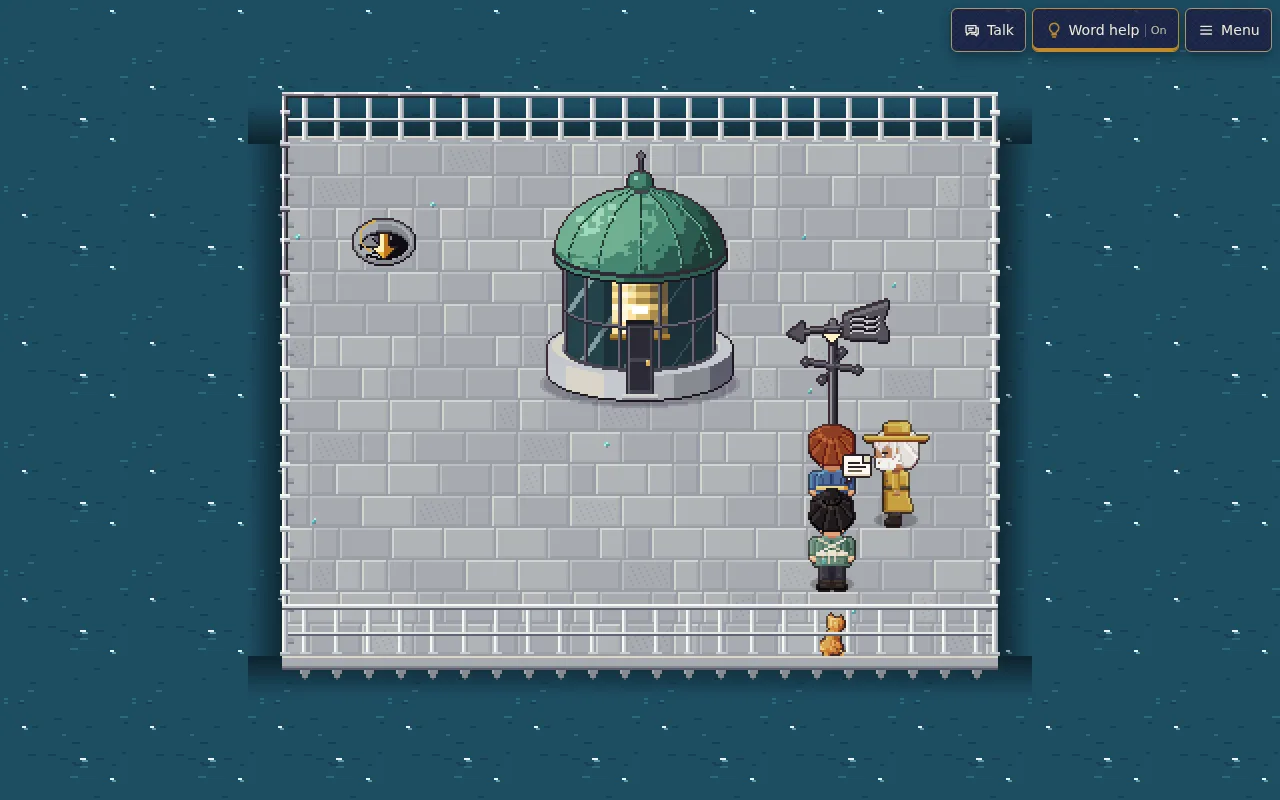
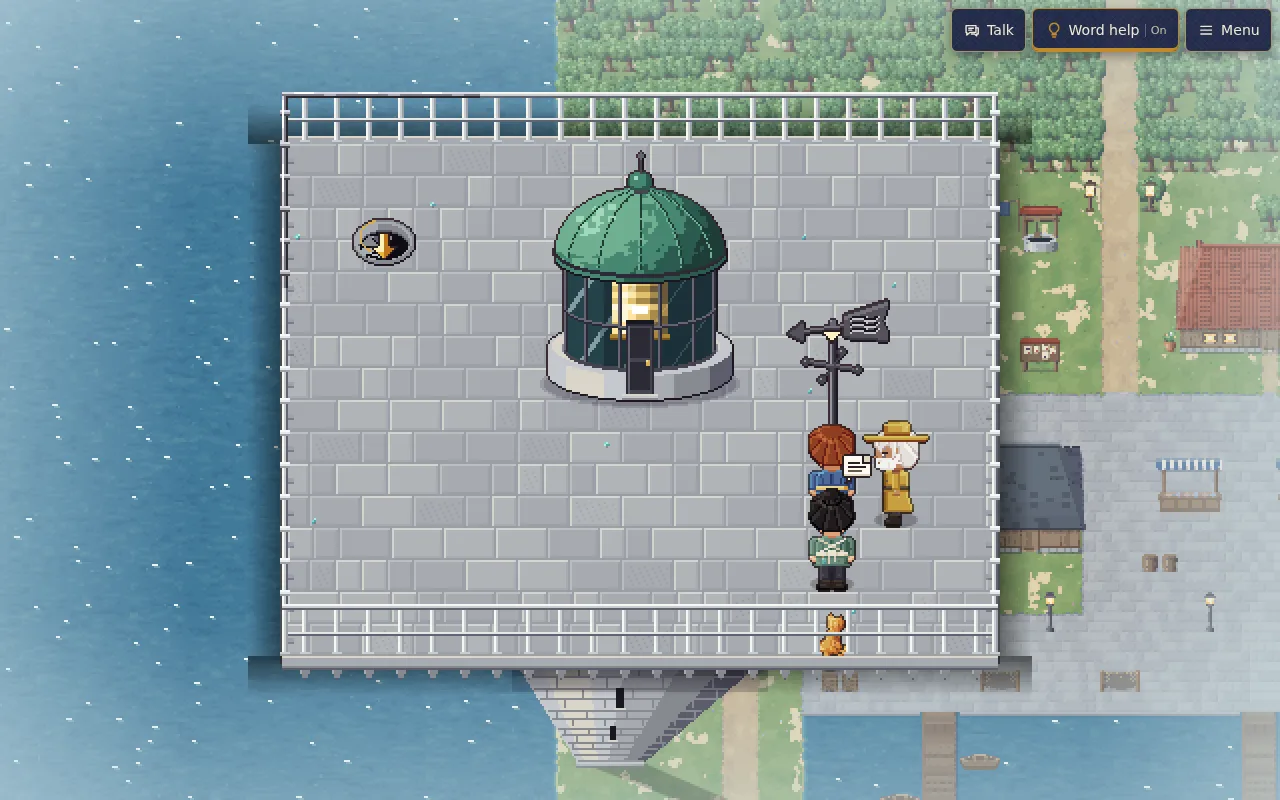
The view from height: evidence, landmark checks and docs for the lighthouse top and the lookout
Finishes the view-from-height work (src/engine/61_below.js, committed in
6b75609 and merged with the task branch in ffdcf46):

- tests/e2e/lighthouse_top.mjs: more landmarks (open sea west of the point;
  the terraces west and east and the channel below the lookout), a water
  colour test, and a night test for on-screen colours (the deck's darkness
  lies over the ground, so a landmark keeps its colour's leaning, not its
  brightness).
- docs/CONTENT.md: `surround` now documents the object form
  ({ below, at, hide, scale, drop, shaft, top, foot, beyond }).
- docs/screenshots/lighthouse_top/: regenerated with the town below.
- docs/screenshots/lookout/: new, festival night and the village after,
  at 1280x800 and 390x844.

Checked on this build: validate (no errors), unit 22067/0, lighthouse_top
106/106 (and 106/106 with --slow), departures 20/20, characters 23/23,
world_view 20/20, interludes 76/76, travel_rules 10/10.

Claude-Session: https://claude.ai/code/session_015RcFBxQ5xp952n4kFB8UbL

diff --git a/docs/CONTENT.md b/docs/CONTENT.md
@@ -110,9 +110,14 @@ C.maps['sg.harbor'] = {
   travelKind: 'interior' | 'dungeon',   // or noTravelWhy: { en } for a story lock
   travelPlace: { en: 'the Drowned Archive' }, // optional: how the message names the place
   noCompanion: 'cond', // rare: hide companion
-  surround: 'sea',  // rare: what lies past the edge instead of the ground carrying on (the top of the
-                    // lighthouse, sg.lighthouse_top): framed like a room (no apron, the soft edge shadow);
-                    // ambient.sea 'calm' | 'wind' picks its state (switch it by story state with `alt`)
+  // an elevated outdoor deck (the top of the lighthouse, the fire lookout): the view from height.
+  // Past the deck is the real ground map drawn small (src/engine/61_below.js), `at` (ground tiles)
+  // at the foot of the structure seen dropping from the deck's south edge; void tiles of the deck's
+  // map are left open so the ground shows round a smaller platform. Framed like a room (no apron,
+  // the soft edge shadow round the deck); at night (ambient.dark >= 0.3) the ground's lights shine
+  // through; ambient.sea 'calm' | 'wind' adds glints or whitecaps where its sea shows.
+  surround: { below: 'sg.harbor' /* or [{ if, map }, …] */, at: [2.5, 31.7], hide: [1, 29, 3, 3],
+              scale: 0.3, drop: 1.9, shaft: 'stone' | 'timber', top: 2, foot: 1.5, beyond: { left: 'water' } },
 };
 ```
 Terrain chars: `.` grass `,` flowers `;` tall grass `:` dirt path `=` cobbles
